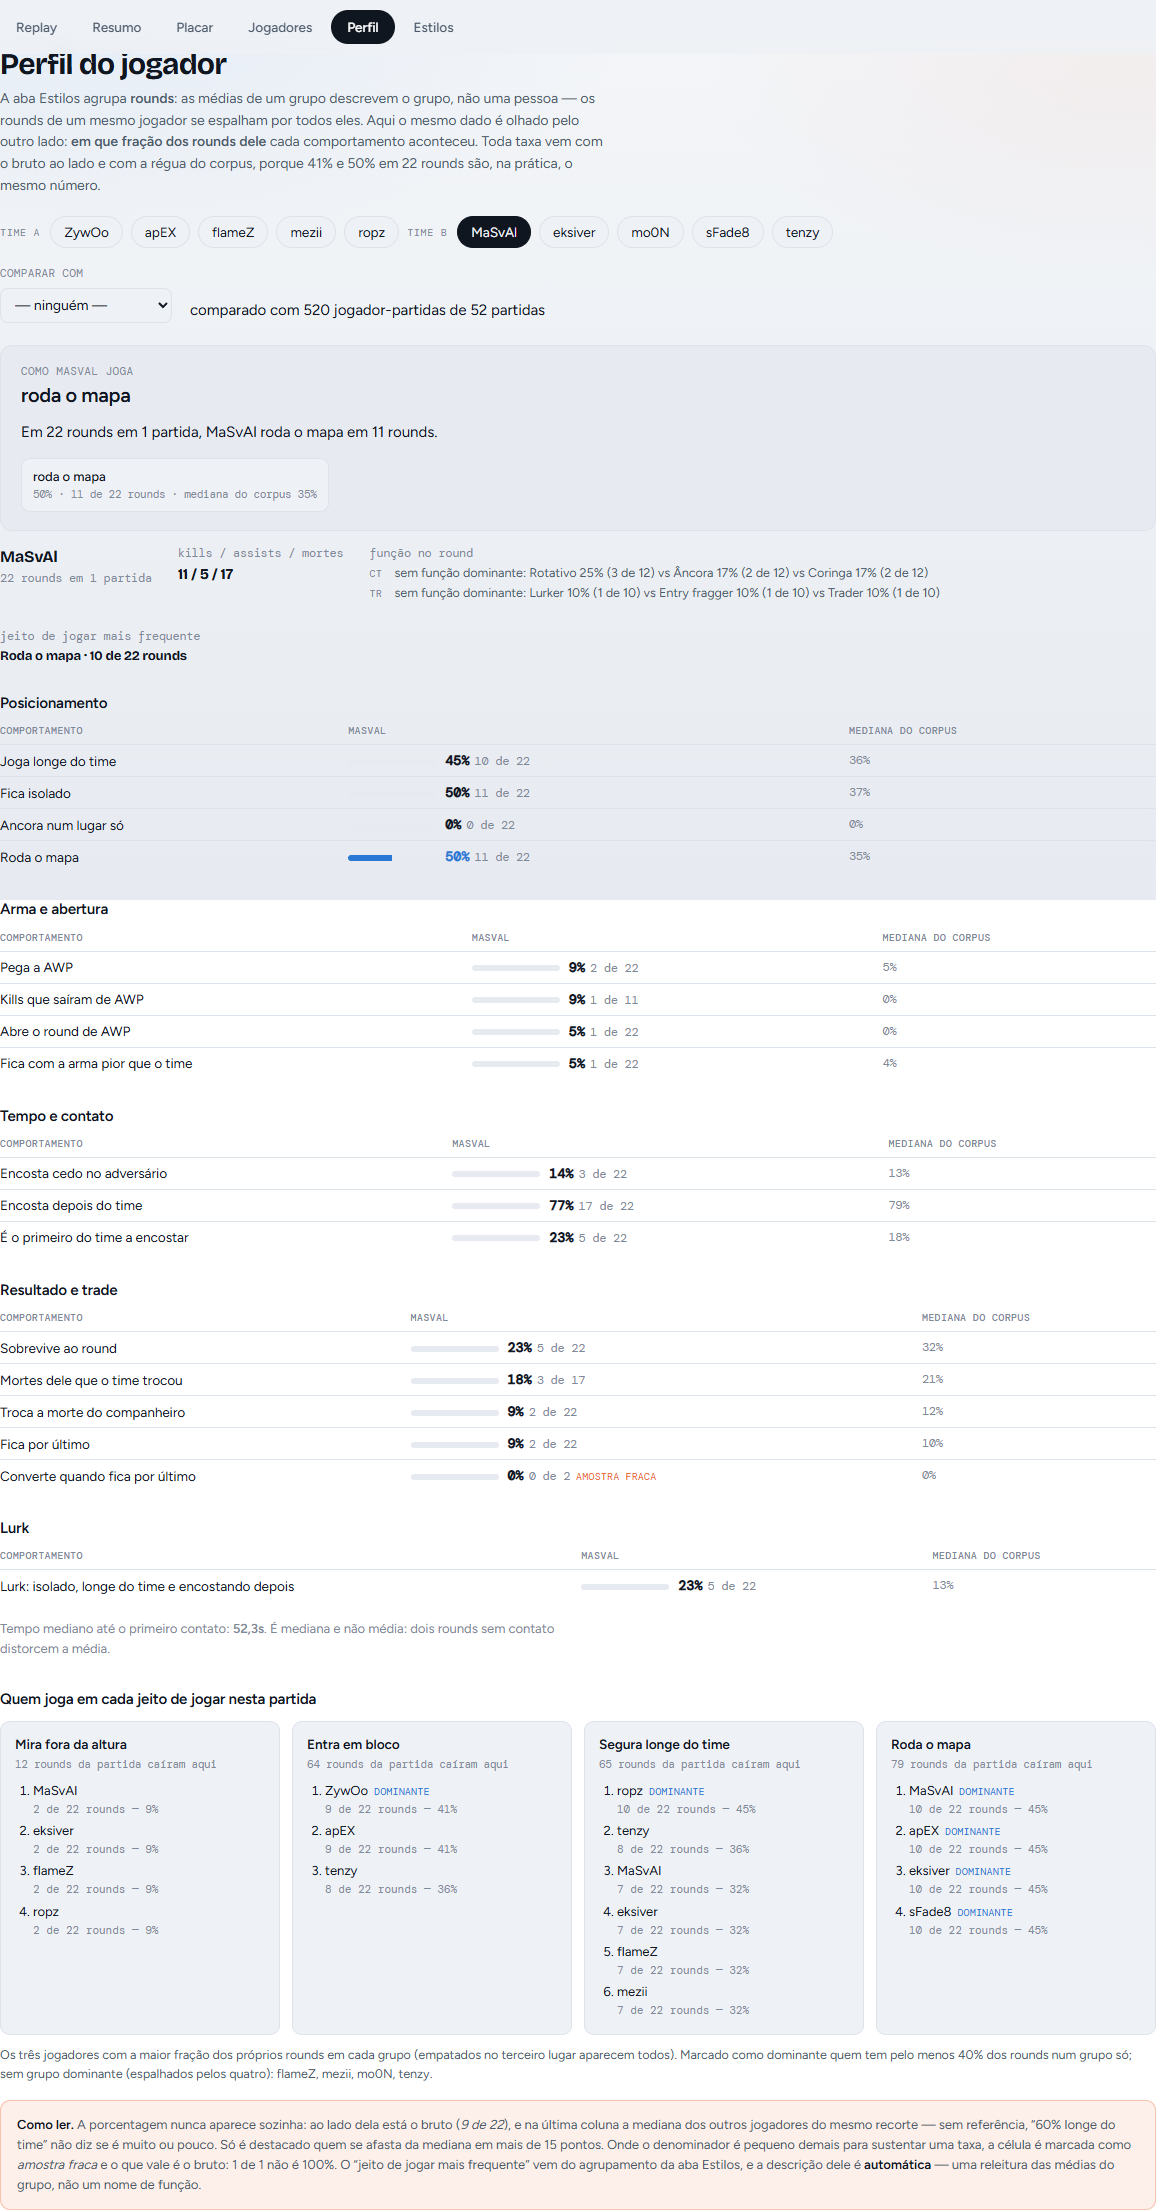
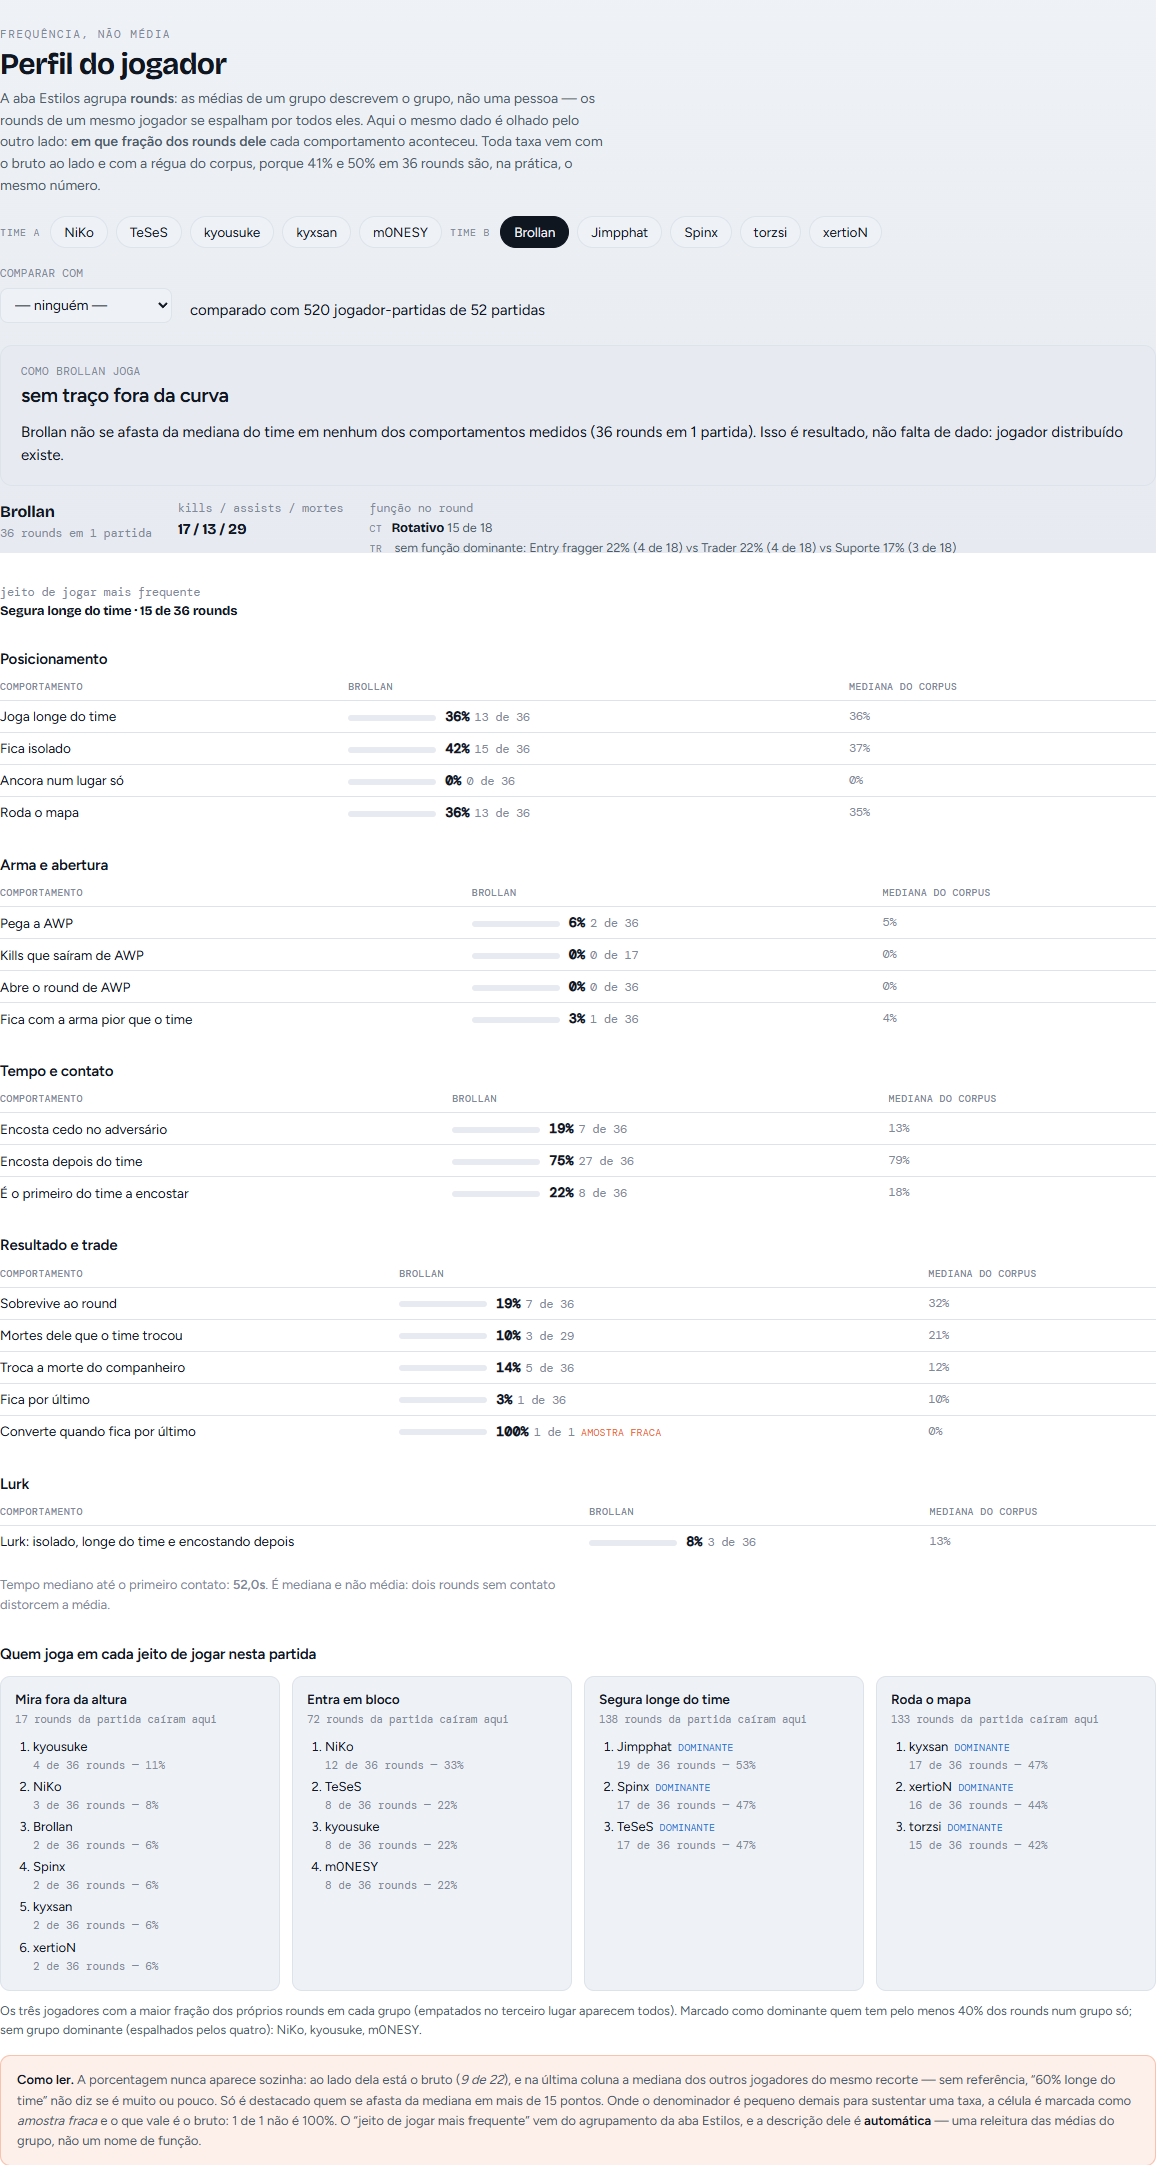
2.2 Capturas do README pela partida de exemplo da landing
A captura do resumo passa a mostrar uma partida com round decisivo; o
recorte é pela página inteira (a barra de abas ficava por cima).

diff --git a/scripts/capturas_readme.py b/scripts/capturas_readme.py
@@ -5,8 +5,9 @@ pelo git: no GitHub as imagens davam 404. As capturas agora são versionadas em
 `assets/readme/` e REGERADAS por este script a partir do site atual -- nunca
 editadas à mão.
 
-Quadros (fixos): a partida de exemplo é PARTIDA; o replay vai a 45% do round
-ROUND, com a direção do olhar ligada.
+Quadros (fixos): a partida é a MESMA do botão "Ver uma partida" da landing
+(scripts/build_site.partida_de_exemplo, critério declarado lá); o replay vai a
+45% do round ROUND, com a direção do olhar ligada.
 
 Uso:
     py -3.12 -m scripts.capturas_readme
@@ -19,7 +20,6 @@ from pathlib import Path
 RAIZ = Path(__file__).resolve().parents[1]
 sys.path.insert(0, str(RAIZ))
 SAIDA = RAIZ / "assets" / "readme"
-PARTIDA = "match_23"          # a partida que tem o .dem e a verdade da demo
 ROUND = 6
 LARGURA, ALTURA = 1280, 900
 # (arquivo, aba, seletor do recorte)
@@ -37,7 +37,11 @@ def gera() -> list[Path]:
     from scripts.build_tactics_page import build_html as prancheta_html
     from scripts.build_web_page import build_html
 
+    from scripts.build_site import PROCESSED_DIR, match_summary, partida_de_exemplo
+
     SAIDA.mkdir(parents=True, exist_ok=True)
+    resumos = [m for m in (match_summary(d.name) for d in sorted(PROCESSED_DIR.glob("match_*")) if d.is_dir()) if m]
+    PARTIDA = partida_de_exemplo(resumos)["id"]
     mapa = json.loads((RAIZ / "data" / "processed" / PARTIDA / "match_meta.json").read_text(encoding="utf-8"))["map_name"]
     pasta = Path(tempfile.mkdtemp(prefix="capturas_readme_"))
     partida = pasta / f"{PARTIDA}.html"
@@ -63,7 +67,11 @@ def gera() -> list[Path]:
         for arquivo, aba, seletor in ABAS:
             pg.click(f'[role=tab][data-tab="{aba}"]')
             pg.wait_for_timeout(400)
-            pg.locator(seletor).screenshot(path=str(SAIDA / arquivo))
+            # recorte pela página inteira: o screenshot do elemento rola a tela e a
+            # barra de abas (fixa) ficava por cima do começo do painel
+            pg.evaluate("() => window.scrollTo(0, 0)")
+            caixa = pg.locator(seletor).bounding_box()
+            pg.screenshot(path=str(SAIDA / arquivo), full_page=True, clip=caixa)
             feitas.append(SAIDA / arquivo)
         pg.goto(prancheta.as_uri())
         pg.wait_for_function("() => Prancheta._interno.S.estado !== null")

diff --git a/README.md b/README.md
@@ -8,8 +8,7 @@ arremessos reais. O parsing é da biblioteca [awpy](https://awpy.rtfd.io/); o
 trabalho daqui é o desenho das métricas, cada uma com a decisão de jogo escrita
 no código e conferida contra dado oficial.
 
-**[Ver o site](https://pedroppansani.github.io/parser-replay-cs2/)** ·
-<!-- numeros:inicio corpus -->52 partidas (43 profissionais, de 11 times, e 9 de FACEIT) em 8 mapas<!-- numeros:fim corpus -->.
+**[Ver o site](https://pedroppansani.github.io/parser-replay-cs2/)** · <!-- numeros:inicio corpus -->52 partidas (43 profissionais, de 11 times, e 9 de FACEIT) em 8 mapas<!-- numeros:fim corpus -->.
 
 ## Três números
 
